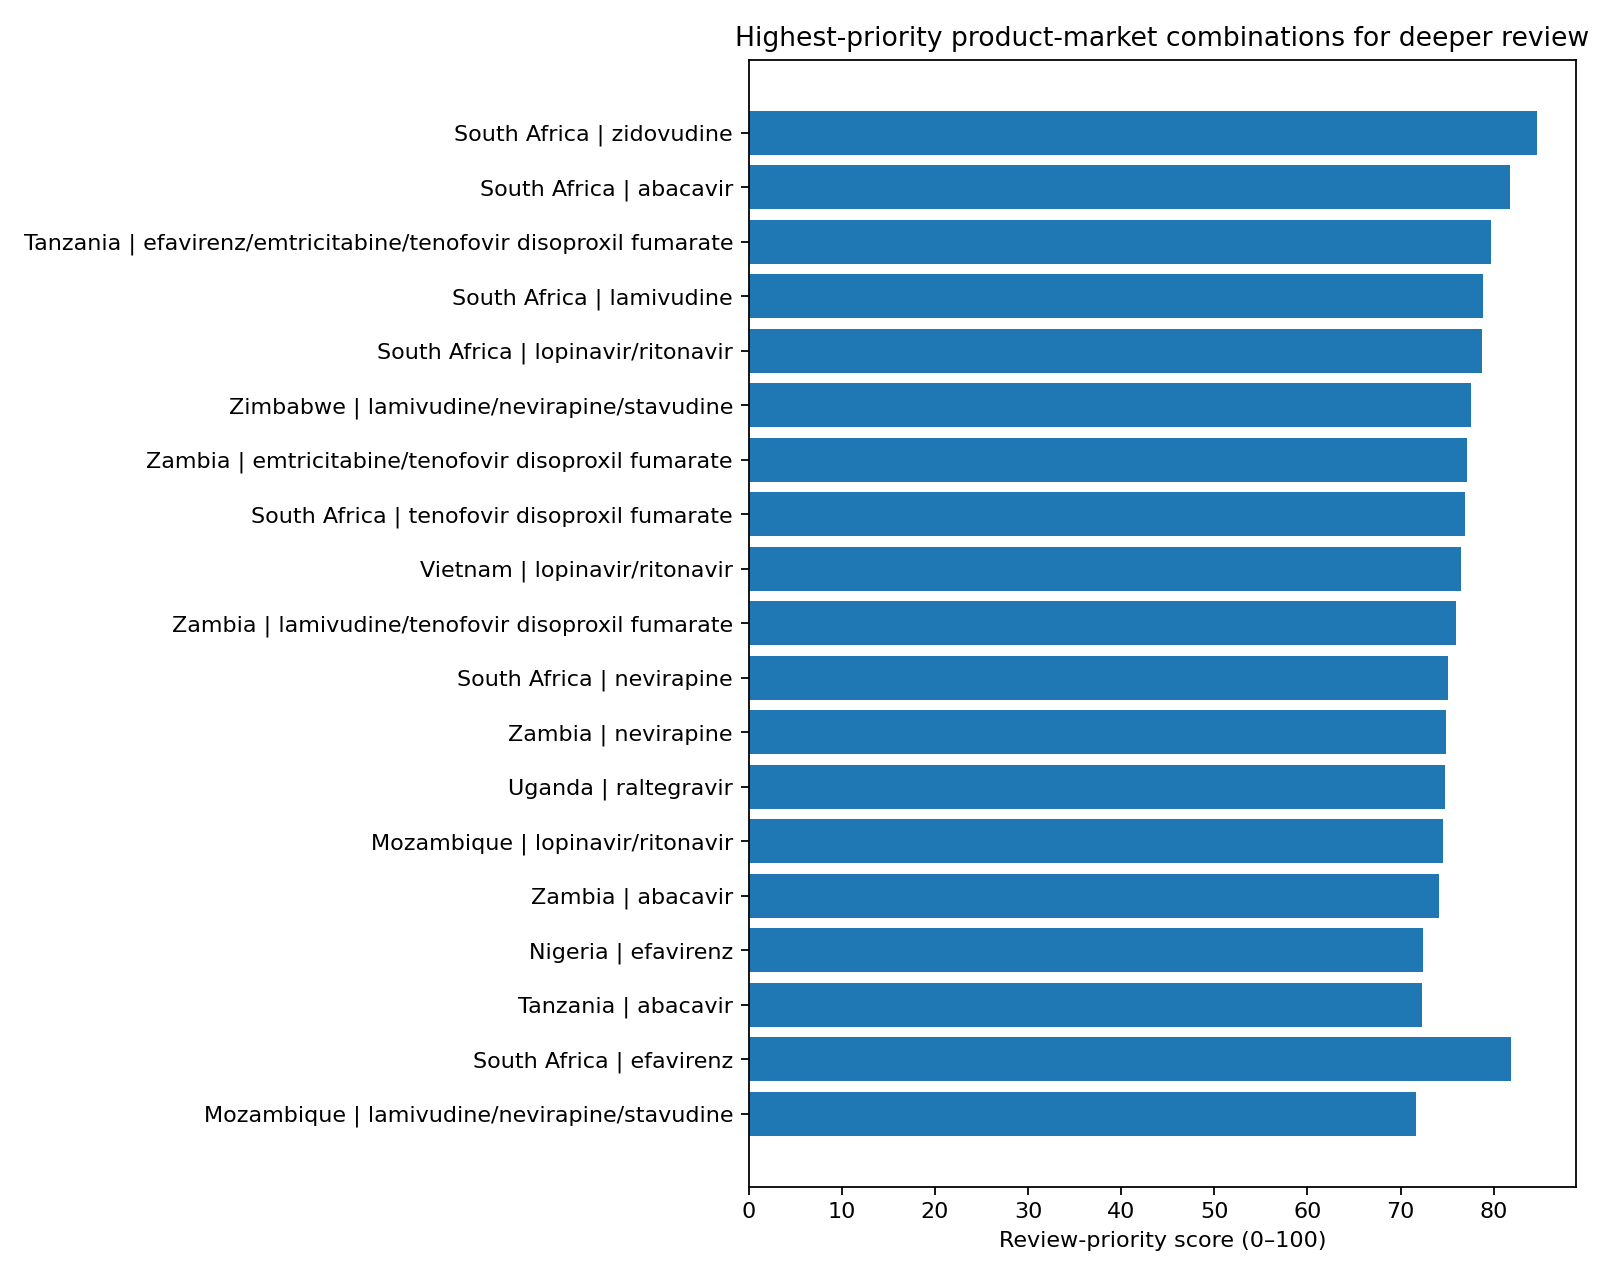
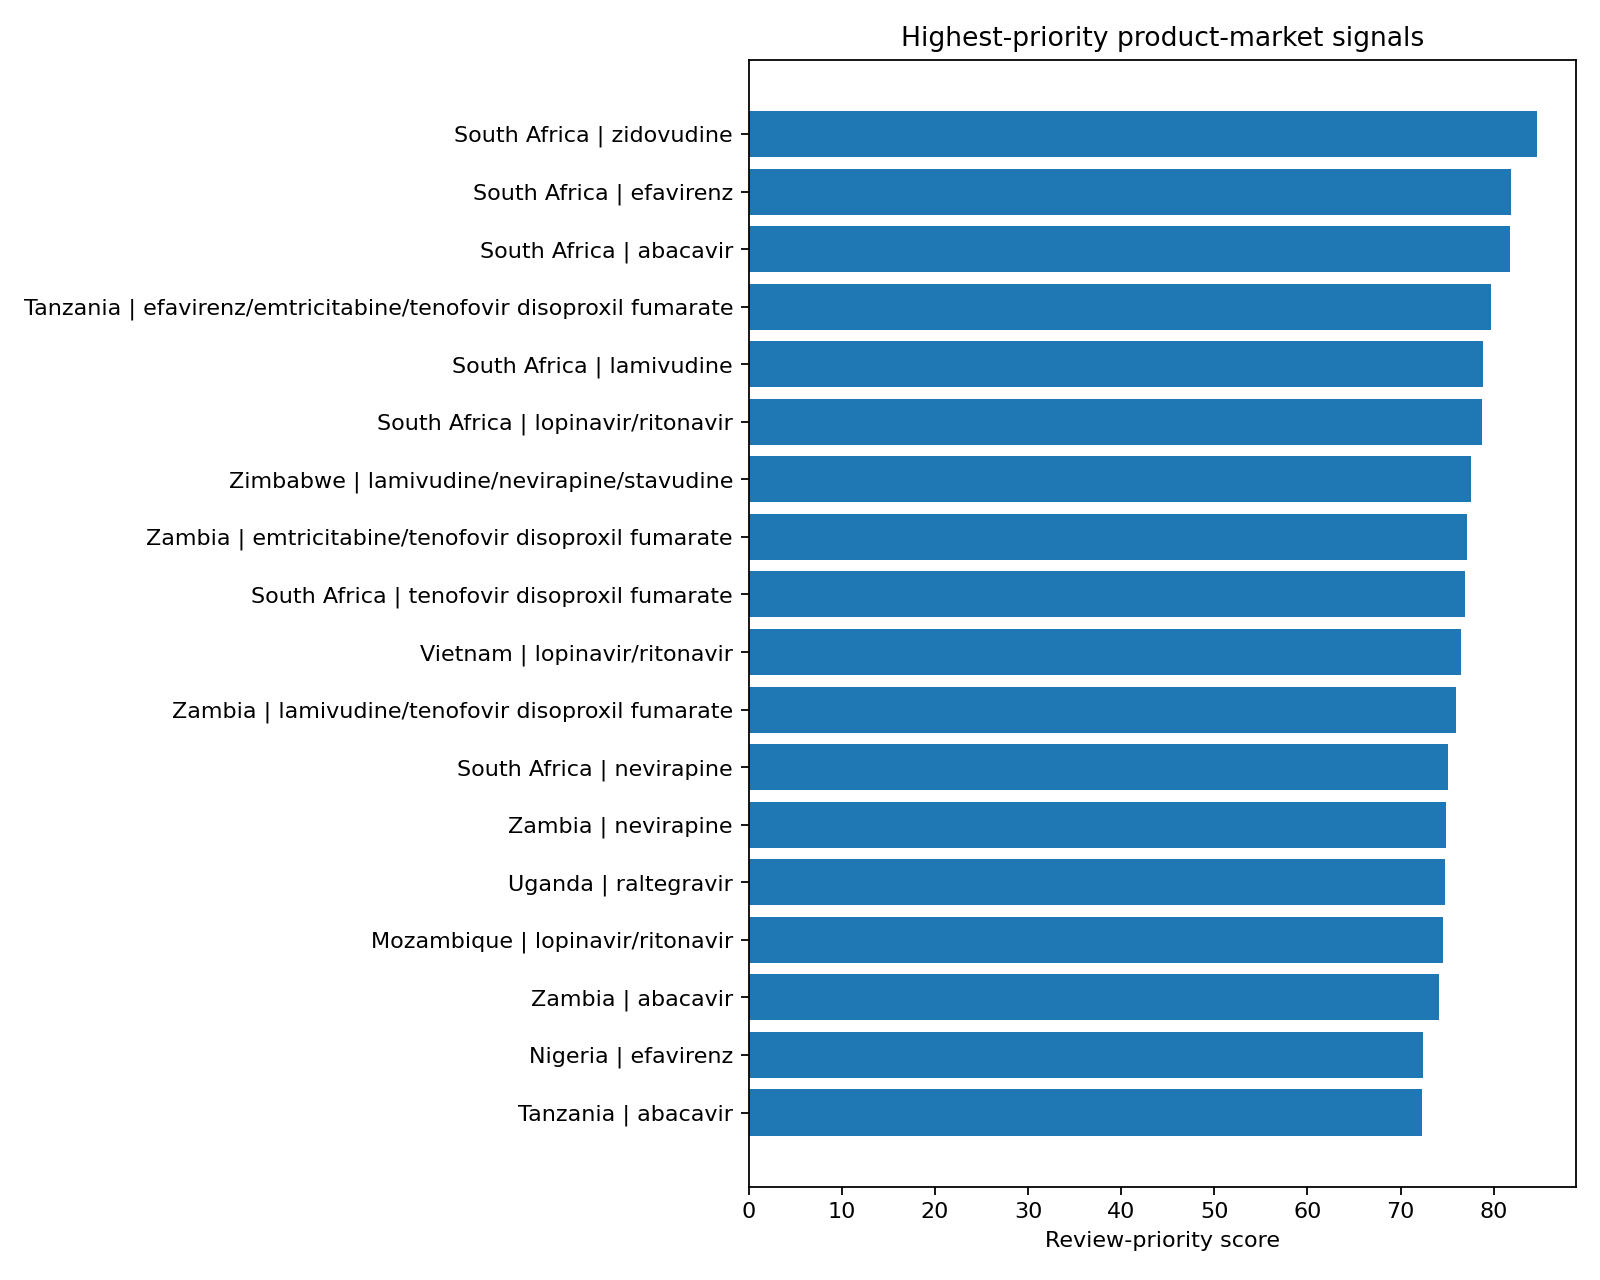
Refresh procurement intelligence pipeline outputs

diff --git a/outputs/dashboard.html b/outputs/dashboard.html
@@ -5,33 +5,37 @@
 <meta name="viewport" content="width=device-width,initial-scale=1">
 <title>Pharmaceutical Procurement Intelligence</title>
 <style>
-body{font-family:Inter,Arial,sans-serif;margin:0;background:#f6f7f9;color:#15171a}
-main{max-width:1100px;margin:auto;padding:48px 24px}
-h1{font-size:38px;margin-bottom:8px} .sub{color:#5c6570;margin-bottom:32px;max-width:800px}
-.cards{display:grid;grid-template-columns:repeat(4,1fr);gap:14px;margin:28px 0}
-.card{background:white;padding:20px;border-radius:14px;border:1px solid #e4e7eb}
-.card span{display:block;color:#68717d;font-size:13px;margin-bottom:8px} .card strong{font-size:26px}
-section{background:white;padding:24px;border-radius:14px;border:1px solid #e4e7eb;margin:18px 0}
-img{width:100%;max-width:920px}
-.data-table{border-collapse:collapse;width:100%;font-size:13px}
-.data-table th,.data-table td{padding:10px;border-bottom:1px solid #eceff2;text-align:left}
-.note{font-size:13px;color:#68717d;line-height:1.5}
+body{font-family:Inter,Arial,sans-serif;margin:0;background:#f5f6f8;color:#17191d}
+main{max-width:1120px;margin:auto;padding:48px 24px}
+h1{font-size:40px;margin:0 0 8px} .sub{color:#606975;max-width:850px;line-height:1.5}
+.cards{display:grid;grid-template-columns:repeat(3,1fr);gap:14px;margin:28px 0}
+.card,section{background:#fff;border:1px solid #e4e7eb;border-radius:14px}
+.card{padding:20px} .card span{display:block;color:#68717d;font-size:13px;margin-bottom:8px}
+.card strong{font-size:26px} section{padding:24px;margin:18px 0;overflow:auto}
+.data-table,.health{border-collapse:collapse;width:100%;font-size:13px}
+.data-table th,.data-table td,.health th,.health td{padding:10px;border-bottom:1px solid #eceff2;text-align:left}
+img{max-width:100%;height:auto} .note{color:#68717d;font-size:13px;line-height:1.5}
 @media(max-width:800px){.cards{grid-template-columns:repeat(2,1fr)}}
 </style>
 </head>
 <body><main>
 <h1>Pharmaceutical Procurement Intelligence</h1>
-<p class="sub">A compact decision-support prototype using historical public global-health procurement data to identify product-market combinations that deserve deeper pricing and supplier review.</p>
-<div class="cards"><div class="card"><span>Transactions</span><strong>8,542</strong></div><div class="card"><span>Markets</span><strong>33</strong></div><div class="card"><span>Suppliers</span><strong>48</strong></div><div class="card"><span>Procurement value</span><strong>$1,413.2M</strong></div></div>
-<section><h2>Highest review-priority signals</h2><table class="dataframe data-table">
+<p class="sub">A reproducible decision-intelligence pipeline that ingests public procurement sources, validates and standardizes records, builds analytical marts, and surfaces pricing and supplier-concentration signals for human review.</p>
+<div class="cards"><div class="card"><span>Transactions</span><strong>8,542</strong></div><div class="card"><span>Healthy sources</span><strong>1</strong></div><div class="card"><span>Markets</span><strong>33</strong></div><div class="card"><span>Suppliers</span><strong>48</strong></div><div class="card"><span>Procurement value</span><strong>$1.41B</strong></div><div class="card"><span>Signals scored</span><strong>375</strong></div></div>
+
+<section><h2>Source health</h2>
+<table class="health"><thead><tr><th>Source</th><th>Status</th><th>Rows</th><th>Changed this run</th></tr></thead>
+<tbody><tr><td>scms</td><td>ok</td><td>8,542</td><td>False</td></tr><tr><td>global_fund_pqr_kenya</td><td>ok</td><td>0</td><td>False</td></tr></tbody></table></section>
+
+<section><h2>Review queue</h2><table class="dataframe data-table">
   <thead>
     <tr style="text-align: right;">
       <th>Market</th>
       <th>Medicine</th>
       <th>Transactions</th>
       <th>Suppliers</th>
-      <th>Price dispersion (%)</th>
-      <th>Top supplier share (%)</th>
+      <th>Price dispersion</th>
+      <th>Top supplier share</th>
       <th>Review score</th>
     </tr>
   </thead>
@@ -41,8 +45,8 @@ img{width:100%;max-width:920px}
       <td>zidovudine</td>
       <td>93</td>
       <td>4</td>
-      <td>107.4</td>
-      <td>97.0</td>
+      <td>107.4%</td>
+      <td>97.0%</td>
       <td>84.6</td>
     </tr>
     <tr>
@@ -50,8 +54,8 @@ img{width:100%;max-width:920px}
       <td>efavirenz</td>
       <td>144</td>
       <td>5</td>
-      <td>101.0</td>
-      <td>77.7</td>
+      <td>101.0%</td>
+      <td>77.7%</td>
       <td>81.9</td>
     </tr>
     <tr>
@@ -59,8 +63,8 @@ img{width:100%;max-width:920px}
       <td>abacavir</td>
       <td>56</td>
       <td>2</td>
-      <td>76.3</td>
-      <td>98.9</td>
+      <td>76.3%</td>
+      <td>98.9%</td>
       <td>81.7</td>
     </tr>
     <tr>
@@ -68,8 +72,8 @@ img{width:100%;max-width:920px}
       <td>efavirenz/emtricitabine/tenofovir disoproxil fumarate</td>
       <td>38</td>
       <td>5</td>
-      <td>47.7</td>
-      <td>79.1</td>
+      <td>47.7%</td>
+      <td>79.1%</td>
       <td>79.7</td>
     </tr>
     <tr>
@@ -77,8 +81,8 @@ img{width:100%;max-width:920px}
       <td>lamivudine</td>
       <td>112</td>
       <td>5</td>
-      <td>94.9</td>
-      <td>69.4</td>
+      <td>94.9%</td>
+      <td>69.4%</td>
       <td>78.8</td>
     </tr>
     <tr>
@@ -86,8 +90,8 @@ img{width:100%;max-width:920px}
       <td>lopinavir/ritonavir</td>
       <td>27</td>
       <td>1</td>
-      <td>39.7</td>
-      <td>100.0</td>
+      <td>39.7%</td>
+      <td>100.0%</td>
       <td>78.7</td>
     </tr>
     <tr>
@@ -95,8 +99,8 @@ img{width:100%;max-width:920px}
       <td>lamivudine/nevirapine/stavudine</td>
       <td>57</td>
       <td>2</td>
-      <td>33.1</td>
-      <td>82.8</td>
+      <td>33.1%</td>
+      <td>82.8%</td>
       <td>77.6</td>
     </tr>
     <tr>
@@ -104,8 +108,8 @@ img{width:100%;max-width:920px}
       <td>emtricitabine/tenofovir disoproxil fumarate</td>
       <td>30</td>
       <td>3</td>
-      <td>30.9</td>
-      <td>81.7</td>
+      <td>30.9%</td>
+      <td>81.7%</td>
       <td>77.1</td>
     </tr>
     <tr>
@@ -113,8 +117,8 @@ img{width:100%;max-width:920px}
       <td>tenofovir disoproxil fumarate</td>
       <td>129</td>
       <td>6</td>
-      <td>177.9</td>
-      <td>51.2</td>
+      <td>177.9%</td>
+      <td>51.2%</td>
       <td>76.9</td>
     </tr>
     <tr>
@@ -122,8 +126,8 @@ img{width:100%;max-width:920px}
       <td>lopinavir/ritonavir</td>
       <td>58</td>
       <td>2</td>
-      <td>26.0</td>
-      <td>98.0</td>
+      <td>26.0%</td>
+      <td>98.0%</td>
       <td>76.5</td>
     </tr>
     <tr>
@@ -131,8 +135,8 @@ img{width:100%;max-width:920px}
       <td>lamivudine/tenofovir disoproxil fumarate</td>
       <td>17</td>
       <td>6</td>
-      <td>115.5</td>
-      <td>69.9</td>
+      <td>115.5%</td>
+      <td>69.9%</td>
       <td>75.9</td>
     </tr>
     <tr>
@@ -140,20 +144,19 @@ img{width:100%;max-width:920px}
       <td>nevirapine</td>
       <td>33</td>
       <td>3</td>
-      <td>361.6</td>
-      <td>98.0</td>
+      <td>361.6%</td>
+      <td>98.0%</td>
       <td>75.1</td>
     </tr>
   </tbody>
 </table>
-<p class="note">The score combines historical procurement value, within-product price dispersion and supplier concentration. It is a screening signal, not a claim that a transaction is inefficient.</p></section>
-<section><h2>Market footprint</h2><img src="figures/market_value.png" alt="Market procurement value"></section>
-<section><h2>Supplier footprint</h2><img src="figures/supplier_value.png" alt="Supplier procurement value"></section>
-<section><h2>Review-priority ranking</h2><img src="figures/review_priority.png" alt="Review priority"></section>
-<section><h2>What this could become</h2>
-<p>An automated intelligence workflow can ingest tender and procurement feeds, standardize medicine/formulation identifiers, benchmark new purchases against historical ranges, detect supplier-concentration shifts, and surface review alerts to commercial or procurement teams.</p>
-</section>
-<section><h2>Important context</h2>
-<p class="note">This first build is historical and should not be read as a representation of current market prices. Procurement terms, freight, contract structure, quality requirements and geography can legitimately explain price variation. The project is designed to demonstrate a transparent analytical workflow rather than assert procurement wrongdoing.</p>
+<p class="note">Signals prioritize deeper investigation. They do not label a procurement transaction efficient or inefficient.</p></section>
+
+<section><h2>Market footprint</h2><img src="figures/market_value.png"></section>
+<section><h2>Supplier footprint</h2><img src="figures/supplier_value.png"></section>
+<section><h2>Signal ranking</h2><img src="figures/review_priority.png"></section>
+
+<section><h2>Pipeline</h2>
+<p>Sources → raw ingestion → source-level change detection → staging → entity resolution → quality gates → canonical warehouse → analytical marts → signal engine → alerts → executive dashboard.</p>
 </section>
 </main></body></html>

diff --git a/outputs/automated_review_brief.md b/outputs/automated_review_brief.md
@@ -1,0 +1,18 @@
+# Automated Procurement Review Brief
+
+Pipeline analyzed **8,542 transactions** across **33 markets** and **1 healthy source(s)**.
+
+## Highest-priority review signals
+
+- **South Africa · zidovudine**: review score 84.6; 93 transactions; 4 suppliers; top supplier share 97.0%.
+- **South Africa · efavirenz**: review score 81.9; 144 transactions; 5 suppliers; top supplier share 77.7%.
+- **South Africa · abacavir**: review score 81.7; 56 transactions; 2 suppliers; top supplier share 98.9%.
+- **Tanzania · efavirenz/emtricitabine/tenofovir disoproxil fumarate**: review score 79.7; 38 transactions; 5 suppliers; top supplier share 79.1%.
+- **South Africa · lamivudine**: review score 78.8; 112 transactions; 5 suppliers; top supplier share 69.4%.
+- **South Africa · lopinavir/ritonavir**: review score 78.7; 27 transactions; 1 suppliers; top supplier share 100.0%.
+- **Zimbabwe · lamivudine/nevirapine/stavudine**: review score 77.6; 57 transactions; 2 suppliers; top supplier share 82.8%.
+- **Zambia · emtricitabine/tenofovir disoproxil fumarate**: review score 77.1; 30 transactions; 3 suppliers; top supplier share 81.7%.
+
+## Interpretation rule
+
+A high score means the combination is commercially material and shows pricing and/or supply concentration patterns worth explaining. It is not evidence of procurement wrongdoing.
